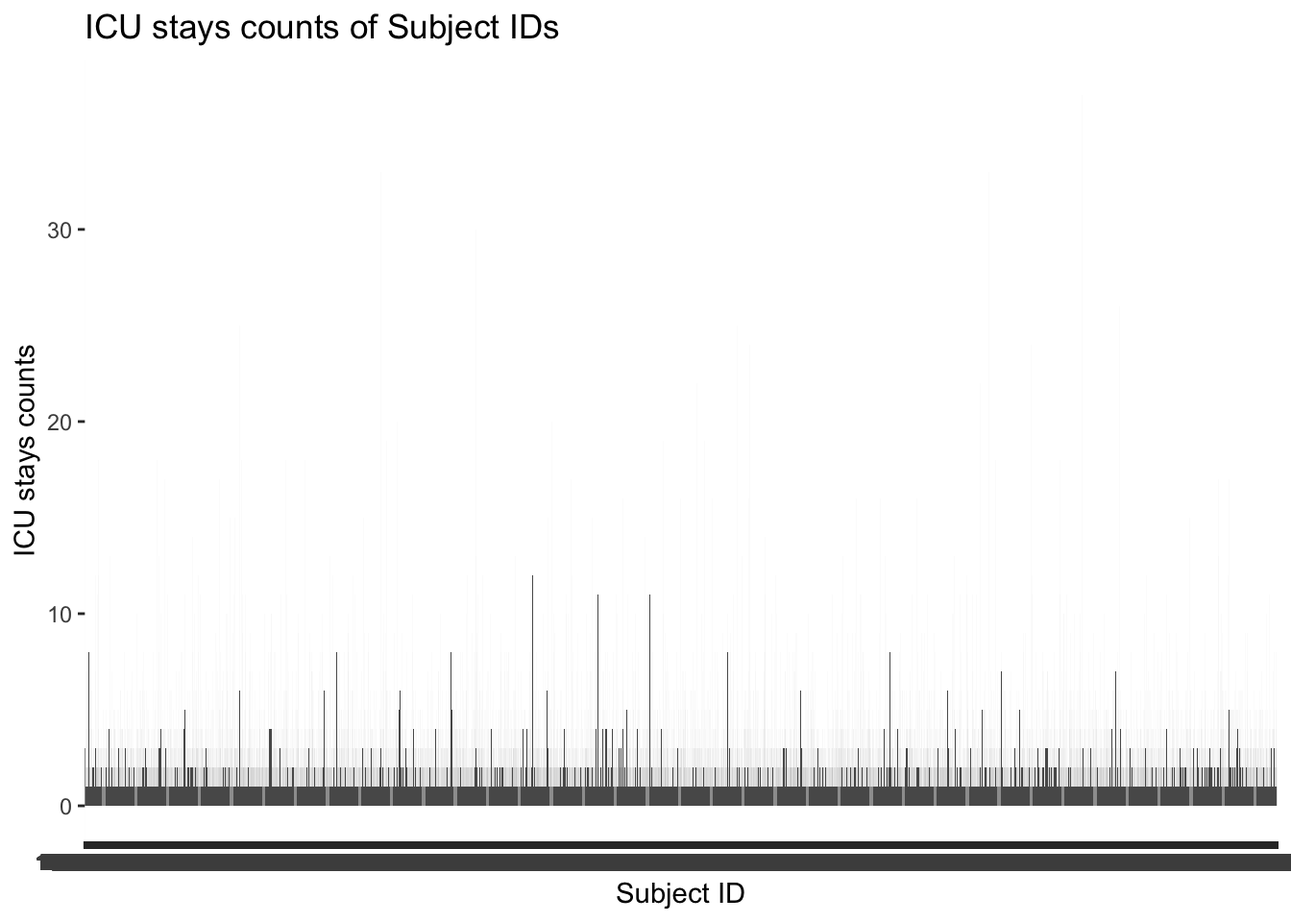
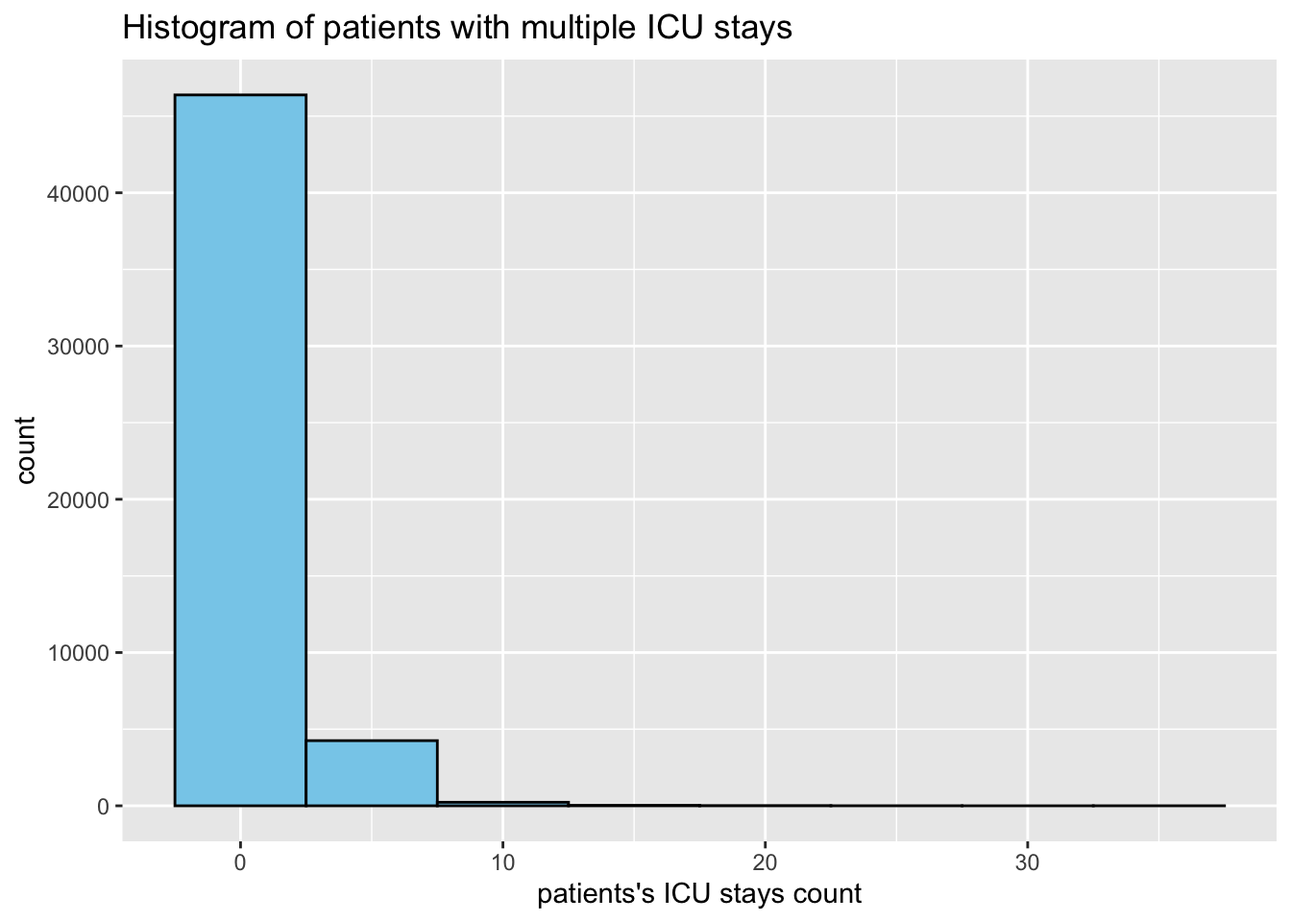
step 2

diff --git a/hw3/hw3.html b/hw3/hw3.html
@@ -226,7 +226,7 @@ Attaching package: 'R.utils'</code></pre>
 <div class="sourceCode cell-code" id="cb23"><pre class="sourceCode r code-with-copy"><code class="sourceCode r"><span id="cb23-1"><a href="#cb23-1" aria-hidden="true" tabindex="-1"></a>memuse<span class="sc">::</span><span class="fu">Sys.meminfo</span>()</span></code><button title="Copy to Clipboard" class="code-copy-button"><i class="bi"></i></button></pre></div>
 <div class="cell-output cell-output-stdout">
 <pre><code>Totalram:  16.000 GiB 
-Freeram:    3.546 GiB </code></pre>
+Freeram:    1.907 GiB </code></pre>
 </div>
 </div>
 <p>In this exercise, we use tidyverse (ggplot2, dplyr, etc) to explore the <a href="https://mimic.mit.edu/docs/iv/">MIMIC-IV</a> data introduced in <a href="https://ucla-biostat-203b.github.io/2024winter/hw/hw1/hw1.html">homework 1</a> and to build a cohort of ICU stays.</p>
@@ -771,7 +771,7 @@ Attaching package: 'scales'</code></pre>
 <span id="cb64-6"><a href="#cb64-6" aria-hidden="true" tabindex="-1"></a>    ))<span class="sc">+</span></span>
 <span id="cb64-7"><a href="#cb64-7" aria-hidden="true" tabindex="-1"></a>  <span class="fu">geom_line</span>()<span class="sc">+</span></span>
 <span id="cb64-8"><a href="#cb64-8" aria-hidden="true" tabindex="-1"></a>  <span class="fu">geom_point</span>(<span class="at">size=</span><span class="fl">0.5</span>)<span class="sc">+</span></span>
-<span id="cb64-9"><a href="#cb64-9" aria-hidden="true" tabindex="-1"></a>  <span class="fu">facet_grid</span>(type<span class="sc">~</span>stay_id, <span class="at">scales=</span><span class="st">"free_x"</span>,<span class="at">space =</span> <span class="st">"free_y"</span>)<span class="sc">+</span></span>
+<span id="cb64-9"><a href="#cb64-9" aria-hidden="true" tabindex="-1"></a>  <span class="fu">facet_grid</span>(type<span class="sc">~</span>stay_id, <span class="at">scales=</span><span class="st">"free_x"</span>, <span class="at">space =</span> <span class="st">"free_y"</span>)<span class="sc">+</span></span>
 <span id="cb64-10"><a href="#cb64-10" aria-hidden="true" tabindex="-1"></a>  <span class="fu">labs</span>(</span>
 <span id="cb64-11"><a href="#cb64-11" aria-hidden="true" tabindex="-1"></a>    <span class="at">x=</span><span class="st">""</span>,</span>
 <span id="cb64-12"><a href="#cb64-12" aria-hidden="true" tabindex="-1"></a>    <span class="at">y=</span><span class="st">""</span>,</span>
@@ -781,8 +781,7 @@ Attaching package: 'scales'</code></pre>
 <span id="cb64-16"><a href="#cb64-16" aria-hidden="true" tabindex="-1"></a>  <span class="fu">theme</span>(<span class="at">legend.title =</span> <span class="fu">element_blank</span>(),</span>
 <span id="cb64-17"><a href="#cb64-17" aria-hidden="true" tabindex="-1"></a>        <span class="at">legend.position =</span> <span class="st">"bottom"</span>,</span>
 <span id="cb64-18"><a href="#cb64-18" aria-hidden="true" tabindex="-1"></a>        <span class="at">strip.text =</span> <span class="fu">element_text</span>(<span class="at">size =</span> <span class="dv">5</span>))<span class="sc">+</span></span>
-<span id="cb64-19"><a href="#cb64-19" aria-hidden="true" tabindex="-1"></a>  <span class="fu">scale_x_datetime</span>(<span class="at">labels =</span> <span class="fu">date_format</span>(<span class="st">"%b %d</span><span class="sc">\n</span><span class="st">%H:%M:%S"</span>)) <span class="sc">+</span></span>
-<span id="cb64-20"><a href="#cb64-20" aria-hidden="true" tabindex="-1"></a>  <span class="fu">scale_y_continuous</span>(<span class="at">labels =</span> comma)</span></code><button title="Copy to Clipboard" class="code-copy-button"><i class="bi"></i></button></pre></div>
+<span id="cb64-19"><a href="#cb64-19" aria-hidden="true" tabindex="-1"></a>  <span class="fu">scale_x_datetime</span>(<span class="at">labels =</span> <span class="fu">date_format</span>(<span class="st">"%b %d</span><span class="sc">\n</span><span class="st">%H:%M:%S"</span>)) </span></code><button title="Copy to Clipboard" class="code-copy-button"><i class="bi"></i></button></pre></div>
 <div class="cell-output-display">
 <div>
 <figure class="figure">
@@ -891,13 +890,12 @@ dttm (2): intime, outtime
 <div class="sourceCode cell-code" id="cb74"><pre class="sourceCode r code-with-copy"><code class="sourceCode r"><span id="cb74-1"><a href="#cb74-1" aria-hidden="true" tabindex="-1"></a>count_data <span class="ot">&lt;-</span> icustays_tble <span class="sc">%&gt;%</span> </span>
 <span id="cb74-2"><a href="#cb74-2" aria-hidden="true" tabindex="-1"></a>  <span class="fu">count</span>(subject_id)</span>
 <span id="cb74-3"><a href="#cb74-3" aria-hidden="true" tabindex="-1"></a></span>
-<span id="cb74-4"><a href="#cb74-4" aria-hidden="true" tabindex="-1"></a><span class="fu">ggplot</span>(count_data, <span class="fu">aes</span>(<span class="at">x =</span> <span class="fu">as.character</span>(subject_id), <span class="at">y =</span> n)) <span class="sc">+</span></span>
-<span id="cb74-5"><a href="#cb74-5" aria-hidden="true" tabindex="-1"></a>  <span class="fu">geom_bar</span>(<span class="at">stat =</span> <span class="st">"identity"</span>) <span class="sc">+</span></span>
+<span id="cb74-4"><a href="#cb74-4" aria-hidden="true" tabindex="-1"></a><span class="fu">ggplot</span>(count_data, <span class="fu">aes</span>(<span class="at">x =</span> n)) <span class="sc">+</span></span>
+<span id="cb74-5"><a href="#cb74-5" aria-hidden="true" tabindex="-1"></a>  <span class="fu">geom_histogram</span>(<span class="at">binwidth =</span> <span class="dv">5</span>, <span class="at">fill =</span> <span class="st">"skyblue"</span>, <span class="at">color =</span> <span class="st">"black"</span>) <span class="sc">+</span></span>
 <span id="cb74-6"><a href="#cb74-6" aria-hidden="true" tabindex="-1"></a>  <span class="fu">labs</span>(</span>
-<span id="cb74-7"><a href="#cb74-7" aria-hidden="true" tabindex="-1"></a>    <span class="at">x =</span> <span class="st">"Subject ID"</span>,</span>
-<span id="cb74-8"><a href="#cb74-8" aria-hidden="true" tabindex="-1"></a>    <span class="at">y =</span> <span class="st">"ICU stays counts"</span>,</span>
-<span id="cb74-9"><a href="#cb74-9" aria-hidden="true" tabindex="-1"></a>    <span class="at">title =</span> <span class="st">"ICU stays counts of Subject IDs"</span></span>
-<span id="cb74-10"><a href="#cb74-10" aria-hidden="true" tabindex="-1"></a>  )</span></code><button title="Copy to Clipboard" class="code-copy-button"><i class="bi"></i></button></pre></div>
+<span id="cb74-7"><a href="#cb74-7" aria-hidden="true" tabindex="-1"></a>    <span class="at">x =</span> <span class="st">"patients's ICU stays count"</span>,</span>
+<span id="cb74-8"><a href="#cb74-8" aria-hidden="true" tabindex="-1"></a>    <span class="at">title =</span> <span class="st">"Histogram of patients with multiple ICU stays"</span></span>
+<span id="cb74-9"><a href="#cb74-9" aria-hidden="true" tabindex="-1"></a>  )</span></code><button title="Copy to Clipboard" class="code-copy-button"><i class="bi"></i></button></pre></div>
 <div class="cell-output-display">
 <div>
 <figure class="figure">
@@ -906,6 +904,7 @@ dttm (2): intime, outtime
 </div>
 </div>
 </div>
+<p>According to the histogram, most of the patients have 1 ICU stay, and the number of patients with multiple ICU stays is decreasing as the number of ICU stays increases.</p>
 </section>
 </section>
 <section id="q3.-admissions-data" class="level2">
@@ -929,6 +928,73 @@ dttm (2): intime, outtime
 <section id="q3.1-ingestion" class="level3">
 <h3 class="anchored" data-anchor-id="q3.1-ingestion">Q3.1 Ingestion</h3>
 <p>Import <code>admissions.csv.gz</code> as a tibble <code>admissions_tble</code>.</p>
+<div class="cell">
+<div class="sourceCode cell-code" id="cb77"><pre class="sourceCode r code-with-copy"><code class="sourceCode r"><span id="cb77-1"><a href="#cb77-1" aria-hidden="true" tabindex="-1"></a>admissions_tble<span class="ot">&lt;-</span><span class="fu">read_csv</span>(<span class="st">"~/mimic/hosp/admissions.csv.gz"</span>)<span class="sc">|&gt;</span></span>
+<span id="cb77-2"><a href="#cb77-2" aria-hidden="true" tabindex="-1"></a>    <span class="fu">print</span>(<span class="at">width=</span><span class="cn">Inf</span>)</span></code><button title="Copy to Clipboard" class="code-copy-button"><i class="bi"></i></button></pre></div>
+<div class="cell-output cell-output-stderr">
+<pre><code>Rows: 431231 Columns: 16
+── Column specification ────────────────────────────────────────────────────────
+Delimiter: ","
+chr  (8): admission_type, admit_provider_id, admission_location, discharge_l...
+dbl  (3): subject_id, hadm_id, hospital_expire_flag
+dttm (5): admittime, dischtime, deathtime, edregtime, edouttime
+
+ℹ Use `spec()` to retrieve the full column specification for this data.
+ℹ Specify the column types or set `show_col_types = FALSE` to quiet this message.</code></pre>
+</div>
+<div class="cell-output cell-output-stdout">
+<pre><code># A tibble: 431,231 × 16
+   subject_id  hadm_id admittime           dischtime           deathtime
+        &lt;dbl&gt;    &lt;dbl&gt; &lt;dttm&gt;              &lt;dttm&gt;              &lt;dttm&gt;   
+ 1   10000032 22595853 2180-05-06 22:23:00 2180-05-07 17:15:00 NA       
+ 2   10000032 22841357 2180-06-26 18:27:00 2180-06-27 18:49:00 NA       
+ 3   10000032 25742920 2180-08-05 23:44:00 2180-08-07 17:50:00 NA       
+ 4   10000032 29079034 2180-07-23 12:35:00 2180-07-25 17:55:00 NA       
+ 5   10000068 25022803 2160-03-03 23:16:00 2160-03-04 06:26:00 NA       
+ 6   10000084 23052089 2160-11-21 01:56:00 2160-11-25 14:52:00 NA       
+ 7   10000084 29888819 2160-12-28 05:11:00 2160-12-28 16:07:00 NA       
+ 8   10000108 27250926 2163-09-27 23:17:00 2163-09-28 09:04:00 NA       
+ 9   10000117 22927623 2181-11-15 02:05:00 2181-11-15 14:52:00 NA       
+10   10000117 27988844 2183-09-18 18:10:00 2183-09-21 16:30:00 NA       
+   admission_type    admit_provider_id admission_location     discharge_location
+   &lt;chr&gt;             &lt;chr&gt;             &lt;chr&gt;                  &lt;chr&gt;             
+ 1 URGENT            P874LG            TRANSFER FROM HOSPITAL HOME              
+ 2 EW EMER.          P09Q6Y            EMERGENCY ROOM         HOME              
+ 3 EW EMER.          P60CC5            EMERGENCY ROOM         HOSPICE           
+ 4 EW EMER.          P30KEH            EMERGENCY ROOM         HOME              
+ 5 EU OBSERVATION    P51VDL            EMERGENCY ROOM         &lt;NA&gt;              
+ 6 EW EMER.          P6957U            WALK-IN/SELF REFERRAL  HOME HEALTH CARE  
+ 7 EU OBSERVATION    P63AD6            PHYSICIAN REFERRAL     &lt;NA&gt;              
+ 8 EU OBSERVATION    P38XXV            EMERGENCY ROOM         &lt;NA&gt;              
+ 9 EU OBSERVATION    P2358X            EMERGENCY ROOM         &lt;NA&gt;              
+10 OBSERVATION ADMIT P75S70            WALK-IN/SELF REFERRAL  HOME HEALTH CARE  
+   insurance language marital_status race  edregtime          
+   &lt;chr&gt;     &lt;chr&gt;    &lt;chr&gt;          &lt;chr&gt; &lt;dttm&gt;             
+ 1 Other     ENGLISH  WIDOWED        WHITE 2180-05-06 19:17:00
+ 2 Medicaid  ENGLISH  WIDOWED        WHITE 2180-06-26 15:54:00
+ 3 Medicaid  ENGLISH  WIDOWED        WHITE 2180-08-05 20:58:00
+ 4 Medicaid  ENGLISH  WIDOWED        WHITE 2180-07-23 05:54:00
+ 5 Other     ENGLISH  SINGLE         WHITE 2160-03-03 21:55:00
+ 6 Medicare  ENGLISH  MARRIED        WHITE 2160-11-20 20:36:00
+ 7 Medicare  ENGLISH  MARRIED        WHITE 2160-12-27 18:32:00
+ 8 Other     ENGLISH  SINGLE         WHITE 2163-09-27 16:18:00
+ 9 Other     ENGLISH  DIVORCED       WHITE 2181-11-14 21:51:00
+10 Other     ENGLISH  DIVORCED       WHITE 2183-09-18 08:41:00
+   edouttime           hospital_expire_flag
+   &lt;dttm&gt;                             &lt;dbl&gt;
+ 1 2180-05-06 23:30:00                    0
+ 2 2180-06-26 21:31:00                    0
+ 3 2180-08-06 01:44:00                    0
+ 4 2180-07-23 14:00:00                    0
+ 5 2160-03-04 06:26:00                    0
+ 6 2160-11-21 03:20:00                    0
+ 7 2160-12-28 16:07:00                    0
+ 8 2163-09-28 09:04:00                    0
+ 9 2181-11-15 09:57:00                    0
+10 2183-09-18 20:20:00                    0
+# ℹ 431,221 more rows</code></pre>
+</div>
+</div>
 </section>
 <section id="q3.2-summary-and-visualization" class="level3">
 <h3 class="anchored" data-anchor-id="q3.2-summary-and-visualization">Q3.2 Summary and visualization</h3>
@@ -946,13 +1012,86 @@ dttm (2): intime, outtime
 <blockquote class="blockquote">
 <p>All dates in the database have been shifted to protect patient confidentiality. Dates will be internally consistent for the same patient, but randomly distributed in the future. Dates of birth which occur in the present time are not true dates of birth. Furthermore, dates of birth which occur before the year 1900 occur if the patient is older than 89. In these cases, the patient’s age at their first admission has been fixed to 300.</p>
 </blockquote>
+<div class="cell">
+<div class="sourceCode cell-code" id="cb80"><pre class="sourceCode r code-with-copy"><code class="sourceCode r"><span id="cb80-1"><a href="#cb80-1" aria-hidden="true" tabindex="-1"></a>admissions_tble<span class="sc">$</span>admittime_hour <span class="ot">&lt;-</span> <span class="fu">hour</span>(admissions_tble<span class="sc">$</span>admittime)</span>
+<span id="cb80-2"><a href="#cb80-2" aria-hidden="true" tabindex="-1"></a>admissions_tble<span class="sc">$</span>admittime_min <span class="ot">&lt;-</span> <span class="fu">minute</span>(admissions_tble<span class="sc">$</span>admittime)</span>
+<span id="cb80-3"><a href="#cb80-3" aria-hidden="true" tabindex="-1"></a>admissions_tble<span class="sc">$</span>length <span class="ot">&lt;-</span> admissions_tble<span class="sc">$</span>dischtime <span class="sc">-</span> admissions_tble<span class="sc">$</span>admittime</span>
+<span id="cb80-4"><a href="#cb80-4" aria-hidden="true" tabindex="-1"></a></span>
+<span id="cb80-5"><a href="#cb80-5" aria-hidden="true" tabindex="-1"></a><span class="co"># number of admissions per patient:</span></span>
+<span id="cb80-6"><a href="#cb80-6" aria-hidden="true" tabindex="-1"></a>count_adm <span class="ot">&lt;-</span> admissions_tble <span class="sc">%&gt;%</span> </span>
+<span id="cb80-7"><a href="#cb80-7" aria-hidden="true" tabindex="-1"></a>  <span class="fu">count</span>(subject_id)</span>
+<span id="cb80-8"><a href="#cb80-8" aria-hidden="true" tabindex="-1"></a></span>
+<span id="cb80-9"><a href="#cb80-9" aria-hidden="true" tabindex="-1"></a><span class="fu">ggplot</span>(count_adm, <span class="fu">aes</span>(<span class="at">x =</span> n)) <span class="sc">+</span></span>
+<span id="cb80-10"><a href="#cb80-10" aria-hidden="true" tabindex="-1"></a>  <span class="fu">geom_histogram</span>(<span class="at">binwidth =</span> <span class="dv">10</span>, <span class="at">fill =</span> <span class="st">"skyblue"</span>, <span class="at">color =</span> <span class="st">"black"</span>) <span class="sc">+</span></span>
+<span id="cb80-11"><a href="#cb80-11" aria-hidden="true" tabindex="-1"></a>  <span class="fu">labs</span>(</span>
+<span id="cb80-12"><a href="#cb80-12" aria-hidden="true" tabindex="-1"></a>    <span class="at">x =</span> <span class="st">"patients's admissions count"</span>,</span>
+<span id="cb80-13"><a href="#cb80-13" aria-hidden="true" tabindex="-1"></a>    <span class="at">title =</span> <span class="st">"Histogram of patients with multiple admissions"</span></span>
+<span id="cb80-14"><a href="#cb80-14" aria-hidden="true" tabindex="-1"></a>  )</span></code><button title="Copy to Clipboard" class="code-copy-button"><i class="bi"></i></button></pre></div>
+<div class="cell-output-display">
+<div>
+<figure class="figure">
+<p><img src="hw3_files/figure-html/unnamed-chunk-13-1.png" class="img-fluid figure-img" width="672"></p>
+</figure>
+</div>
+</div>
+<div class="sourceCode cell-code" id="cb81"><pre class="sourceCode r code-with-copy"><code class="sourceCode r"><span id="cb81-1"><a href="#cb81-1" aria-hidden="true" tabindex="-1"></a><span class="co"># admission hour:</span></span>
+<span id="cb81-2"><a href="#cb81-2" aria-hidden="true" tabindex="-1"></a>admissions_tble <span class="sc">%&gt;%</span> </span>
+<span id="cb81-3"><a href="#cb81-3" aria-hidden="true" tabindex="-1"></a>  <span class="fu">count</span>(admittime_hour) <span class="sc">%&gt;%</span> </span>
+<span id="cb81-4"><a href="#cb81-4" aria-hidden="true" tabindex="-1"></a>  <span class="fu">ggplot</span>(<span class="fu">aes</span>(<span class="at">x =</span> admittime_hour, <span class="at">y =</span> n)) <span class="sc">+</span></span>
+<span id="cb81-5"><a href="#cb81-5" aria-hidden="true" tabindex="-1"></a>  <span class="fu">geom_col</span>(<span class="at">fill =</span> <span class="st">"green"</span>) <span class="sc">+</span></span>
+<span id="cb81-6"><a href="#cb81-6" aria-hidden="true" tabindex="-1"></a>  <span class="fu">labs</span>(</span>
+<span id="cb81-7"><a href="#cb81-7" aria-hidden="true" tabindex="-1"></a>    <span class="at">x =</span> <span class="st">"admission hour"</span>,</span>
+<span id="cb81-8"><a href="#cb81-8" aria-hidden="true" tabindex="-1"></a>    <span class="at">y =</span> <span class="st">"count"</span>,</span>
+<span id="cb81-9"><a href="#cb81-9" aria-hidden="true" tabindex="-1"></a>    <span class="at">title =</span> <span class="st">"Admission hour distribution"</span></span>
+<span id="cb81-10"><a href="#cb81-10" aria-hidden="true" tabindex="-1"></a>  )</span></code><button title="Copy to Clipboard" class="code-copy-button"><i class="bi"></i></button></pre></div>
+<div class="cell-output-display">
+<div>
+<figure class="figure">
+<p><img src="hw3_files/figure-html/unnamed-chunk-13-2.png" class="img-fluid figure-img" width="672"></p>
+</figure>
+</div>
+</div>
+<div class="sourceCode cell-code" id="cb82"><pre class="sourceCode r code-with-copy"><code class="sourceCode r"><span id="cb82-1"><a href="#cb82-1" aria-hidden="true" tabindex="-1"></a><span class="co"># admission minute:</span></span>
+<span id="cb82-2"><a href="#cb82-2" aria-hidden="true" tabindex="-1"></a>admissions_tble <span class="sc">%&gt;%</span> </span>
+<span id="cb82-3"><a href="#cb82-3" aria-hidden="true" tabindex="-1"></a>  <span class="fu">count</span>(admittime_min) <span class="sc">%&gt;%</span> </span>
+<span id="cb82-4"><a href="#cb82-4" aria-hidden="true" tabindex="-1"></a>  <span class="fu">ggplot</span>(<span class="fu">aes</span>(<span class="at">x =</span> admittime_min, <span class="at">y =</span> n)) <span class="sc">+</span></span>
+<span id="cb82-5"><a href="#cb82-5" aria-hidden="true" tabindex="-1"></a>  <span class="fu">geom_col</span>(<span class="at">fill =</span> <span class="st">"pink"</span>) <span class="sc">+</span></span>
+<span id="cb82-6"><a href="#cb82-6" aria-hidden="true" tabindex="-1"></a>  <span class="fu">labs</span>(</span>
+<span id="cb82-7"><a href="#cb82-7" aria-hidden="true" tabindex="-1"></a>    <span class="at">x =</span> <span class="st">"admission minute"</span>,</span>
+<span id="cb82-8"><a href="#cb82-8" aria-hidden="true" tabindex="-1"></a>    <span class="at">y =</span> <span class="st">"count"</span>,</span>
+<span id="cb82-9"><a href="#cb82-9" aria-hidden="true" tabindex="-1"></a>    <span class="at">title =</span> <span class="st">"Admission minute distribution"</span></span>
+<span id="cb82-10"><a href="#cb82-10" aria-hidden="true" tabindex="-1"></a>  )</span></code><button title="Copy to Clipboard" class="code-copy-button"><i class="bi"></i></button></pre></div>
+<div class="cell-output-display">
+<div>
+<figure class="figure">
+<p><img src="hw3_files/figure-html/unnamed-chunk-13-3.png" class="img-fluid figure-img" width="672"></p>
+</figure>
+</div>
+</div>
+<div class="sourceCode cell-code" id="cb83"><pre class="sourceCode r code-with-copy"><code class="sourceCode r"><span id="cb83-1"><a href="#cb83-1" aria-hidden="true" tabindex="-1"></a><span class="co"># length of hospital stay:</span></span>
+<span id="cb83-2"><a href="#cb83-2" aria-hidden="true" tabindex="-1"></a>admissions_tble <span class="sc">%&gt;%</span> </span>
+<span id="cb83-3"><a href="#cb83-3" aria-hidden="true" tabindex="-1"></a>  <span class="fu">ggplot</span>(<span class="fu">aes</span>(<span class="at">x =</span> <span class="fu">as.numeric</span>(length, <span class="at">units =</span> <span class="st">"days"</span>))) <span class="sc">+</span></span>
+<span id="cb83-4"><a href="#cb83-4" aria-hidden="true" tabindex="-1"></a>  <span class="fu">geom_histogram</span>(<span class="at">binwidth =</span> <span class="dv">10</span>, <span class="at">fill =</span> <span class="st">"blue"</span>, <span class="at">color =</span> <span class="st">"black"</span>) <span class="sc">+</span></span>
+<span id="cb83-5"><a href="#cb83-5" aria-hidden="true" tabindex="-1"></a>  <span class="fu">labs</span>(</span>
+<span id="cb83-6"><a href="#cb83-6" aria-hidden="true" tabindex="-1"></a>    <span class="at">x =</span> <span class="st">"length of hospital stay"</span>,</span>
+<span id="cb83-7"><a href="#cb83-7" aria-hidden="true" tabindex="-1"></a>    <span class="at">title =</span> <span class="st">"Histogram of length of hospital stay"</span></span>
+<span id="cb83-8"><a href="#cb83-8" aria-hidden="true" tabindex="-1"></a>  )</span></code><button title="Copy to Clipboard" class="code-copy-button"><i class="bi"></i></button></pre></div>
+<div class="cell-output-display">
+<div>
+<figure class="figure">
+<p><img src="hw3_files/figure-html/unnamed-chunk-13-4.png" class="img-fluid figure-img" width="672"></p>
+</figure>
+</div>
+</div>
+</div>
+<p>According to the plots, most of the patients have 1 admission, and the number of patients with multiple admissions is decreasing as the number of admissions increases. For the admission hour, most of the admissions occur from 3:00 pm to 12:00 pm, there are relatively fewer admissions from 12:00 am to 6:00 am. But the amount is unusually high around 7 am. For the admission hour, there are 4 time period that has unusually high amount of admissions, which are 0, 15, 30, 45. It’s possible that the data is recorded in 15 minutes interval. For the length of hospital stay, most of the patients stay in the hospital for less than 10 days, and the number of patients with longer hospital stay is decreasing as the length of hospital stay increases.</p>
 </section>
 </section>
 <section id="q4.-patients-data" class="level2">
 <h2 class="anchored" data-anchor-id="q4.-patients-data">Q4. <code>patients</code> data</h2>
 <p>Patient information is available in <code>patients.csv.gz</code>. See <a href="https://mimic.mit.edu/docs/iv/modules/hosp/patients/" class="uri">https://mimic.mit.edu/docs/iv/modules/hosp/patients/</a> for details of each field in this file. The first 10 lines are</p>
 <div class="cell">
-<div class="sourceCode cell-code" id="cb77"><pre class="sourceCode bash code-with-copy"><code class="sourceCode bash"><span id="cb77-1"><a href="#cb77-1" aria-hidden="true" tabindex="-1"></a><span class="fu">zcat</span> <span class="op">&lt;</span> ~/mimic/hosp/patients.csv.gz <span class="kw">|</span> <span class="fu">head</span></span></code><button title="Copy to Clipboard" class="code-copy-button"><i class="bi"></i></button></pre></div>
+<div class="sourceCode cell-code" id="cb84"><pre class="sourceCode bash code-with-copy"><code class="sourceCode bash"><span id="cb84-1"><a href="#cb84-1" aria-hidden="true" tabindex="-1"></a><span class="fu">zcat</span> <span class="op">&lt;</span> ~/mimic/hosp/patients.csv.gz <span class="kw">|</span> <span class="fu">head</span></span></code><button title="Copy to Clipboard" class="code-copy-button"><i class="bi"></i></button></pre></div>
 <div class="cell-output cell-output-stdout">
 <pre><code>subject_id,gender,anchor_age,anchor_year,anchor_year_group,dod
 10000032,F,52,2180,2014 - 2016,2180-09-09
@@ -979,7 +1118,7 @@ dttm (2): intime, outtime
 <h2 class="anchored" data-anchor-id="q5.-lab-results">Q5. Lab results</h2>
 <p><code>labevents.csv.gz</code> (<a href="https://mimic.mit.edu/docs/iv/modules/hosp/labevents/" class="uri">https://mimic.mit.edu/docs/iv/modules/hosp/labevents/</a>) contains all laboratory measurements for patients. The first 10 lines are</p>
 <div class="cell">
-<div class="sourceCode cell-code" id="cb79"><pre class="sourceCode bash code-with-copy"><code class="sourceCode bash"><span id="cb79-1"><a href="#cb79-1" aria-hidden="true" tabindex="-1"></a><span class="fu">zcat</span> <span class="op">&lt;</span> ~/mimic/hosp/labevents.csv.gz <span class="kw">|</span> <span class="fu">head</span></span></code><button title="Copy to Clipboard" class="code-copy-button"><i class="bi"></i></button></pre></div>
+<div class="sourceCode cell-code" id="cb86"><pre class="sourceCode bash code-with-copy"><code class="sourceCode bash"><span id="cb86-1"><a href="#cb86-1" aria-hidden="true" tabindex="-1"></a><span class="fu">zcat</span> <span class="op">&lt;</span> ~/mimic/hosp/labevents.csv.gz <span class="kw">|</span> <span class="fu">head</span></span></code><button title="Copy to Clipboard" class="code-copy-button"><i class="bi"></i></button></pre></div>
 <div class="cell-output cell-output-stdout">
 <pre><code>labevent_id,subject_id,hadm_id,specimen_id,itemid,order_provider_id,charttime,storetime,value,valuenum,valueuom,ref_range_lower,ref_range_upper,flag,priority,comments
 1,10000032,,45421181,51237,P28Z0X,2180-03-23 11:51:00,2180-03-23 15:15:00,1.4,1.4,,0.9,1.1,abnormal,ROUTINE,
@@ -995,7 +1134,7 @@ dttm (2): intime, outtime
 </div>
 <p><code>d_labitems.csv.gz</code> (<a href="https://mimic.mit.edu/docs/iv/modules/hosp/d_labitems/" class="uri">https://mimic.mit.edu/docs/iv/modules/hosp/d_labitems/</a>) is the dictionary of lab measurements.</p>
 <div class="cell">
-<div class="sourceCode cell-code" id="cb81"><pre class="sourceCode bash code-with-copy"><code class="sourceCode bash"><span id="cb81-1"><a href="#cb81-1" aria-hidden="true" tabindex="-1"></a><span class="fu">zcat</span> <span class="op">&lt;</span> ~/mimic/hosp/d_labitems.csv.gz <span class="kw">|</span> <span class="fu">head</span></span></code><button title="Copy to Clipboard" class="code-copy-button"><i class="bi"></i></button></pre></div>
+<div class="sourceCode cell-code" id="cb88"><pre class="sourceCode bash code-with-copy"><code class="sourceCode bash"><span id="cb88-1"><a href="#cb88-1" aria-hidden="true" tabindex="-1"></a><span class="fu">zcat</span> <span class="op">&lt;</span> ~/mimic/hosp/d_labitems.csv.gz <span class="kw">|</span> <span class="fu">head</span></span></code><button title="Copy to Clipboard" class="code-copy-button"><i class="bi"></i></button></pre></div>
 <div class="cell-output cell-output-stdout">
 <pre><code>itemid,label,fluid,category
 50801,Alveolar-arterial Gradient,Blood,Blood Gas
@@ -1017,7 +1156,7 @@ dttm (2): intime, outtime
 <h2 class="anchored" data-anchor-id="q6.-vitals-from-charted-events">Q6. Vitals from charted events</h2>
 <p><code>chartevents.csv.gz</code> (<a href="https://mimic.mit.edu/docs/iv/modules/icu/chartevents/" class="uri">https://mimic.mit.edu/docs/iv/modules/icu/chartevents/</a>) contains all the charted data available for a patient. During their ICU stay, the primary repository of a patient’s information is their electronic chart. The <code>itemid</code> variable indicates a single measurement type in the database. The <code>value</code> variable is the value measured for <code>itemid</code>. The first 10 lines of <code>chartevents.csv.gz</code> are</p>
 <div class="cell">
-<div class="sourceCode cell-code" id="cb83"><pre class="sourceCode bash code-with-copy"><code class="sourceCode bash"><span id="cb83-1"><a href="#cb83-1" aria-hidden="true" tabindex="-1"></a><span class="fu">zcat</span> <span class="op">&lt;</span> ~/mimic/icu/chartevents.csv.gz <span class="kw">|</span> <span class="fu">head</span></span></code><button title="Copy to Clipboard" class="code-copy-button"><i class="bi"></i></button></pre></div>
+<div class="sourceCode cell-code" id="cb90"><pre class="sourceCode bash code-with-copy"><code class="sourceCode bash"><span id="cb90-1"><a href="#cb90-1" aria-hidden="true" tabindex="-1"></a><span class="fu">zcat</span> <span class="op">&lt;</span> ~/mimic/icu/chartevents.csv.gz <span class="kw">|</span> <span class="fu">head</span></span></code><button title="Copy to Clipboard" class="code-copy-button"><i class="bi"></i></button></pre></div>
 <div class="cell-output cell-output-stdout">
 <pre><code>subject_id,hadm_id,stay_id,caregiver_id,charttime,storetime,itemid,value,valuenum,valueuom,warning
 10000032,29079034,39553978,47007,2180-07-23 21:01:00,2180-07-23 22:15:00,220179,82,82,mmHg,0
@@ -1033,7 +1172,7 @@ dttm (2): intime, outtime
 </div>
 <p><code>d_items.csv.gz</code> (<a href="https://mimic.mit.edu/docs/iv/modules/icu/d_items/" class="uri">https://mimic.mit.edu/docs/iv/modules/icu/d_items/</a>) is the dictionary for the <code>itemid</code> in <code>chartevents.csv.gz</code>.</p>
 <div class="cell">
-<div class="sourceCode cell-code" id="cb85"><pre class="sourceCode bash code-with-copy"><code class="sourceCode bash"><span id="cb85-1"><a href="#cb85-1" aria-hidden="true" tabindex="-1"></a><span class="fu">zcat</span> <span class="op">&lt;</span> ~/mimic/icu/d_items.csv.gz <span class="kw">|</span> <span class="fu">head</span></span></code><button title="Copy to Clipboard" class="code-copy-button"><i class="bi"></i></button></pre></div>
+<div class="sourceCode cell-code" id="cb92"><pre class="sourceCode bash code-with-copy"><code class="sourceCode bash"><span id="cb92-1"><a href="#cb92-1" aria-hidden="true" tabindex="-1"></a><span class="fu">zcat</span> <span class="op">&lt;</span> ~/mimic/icu/d_items.csv.gz <span class="kw">|</span> <span class="fu">head</span></span></code><button title="Copy to Clipboard" class="code-copy-button"><i class="bi"></i></button></pre></div>
 <div class="cell-output cell-output-stdout">
 <pre><code>itemid,label,abbreviation,linksto,category,unitname,param_type,lownormalvalue,highnormalvalue
 220001,Problem List,Problem List,chartevents,General,,Text,,
